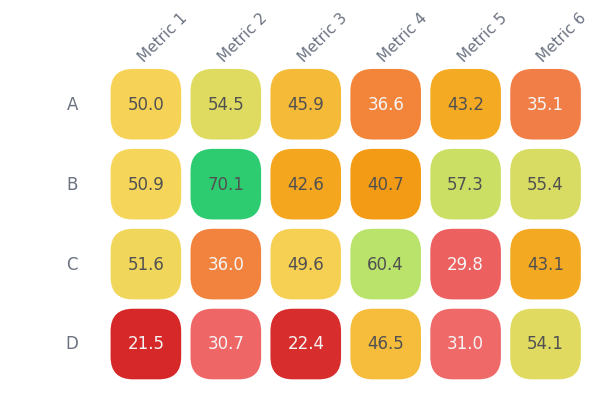
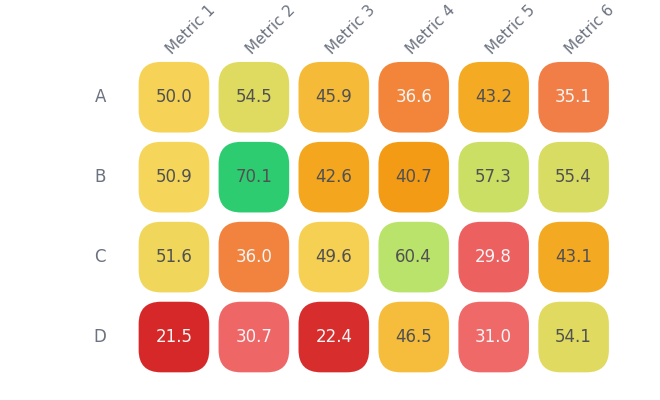
added to do list

diff --git a/demo.py b/demo.py
@@ -19,5 +19,5 @@ fig, ax = rounded_heatmap(
 )
 
 
-fig.savefig("images/heatmap.png", bbox_inches="tight")
+fig.savefig("images/heatmap.png")
 

diff --git a/README.md b/README.md
@@ -8,13 +8,13 @@ This small script came out of a real need during a case study presentation. I wa
 
 ## Install
 
-```bash
+```python
 pip install matplotlib numpy pandas
 ```
 
 ## Use
 
-```bash
+```python
 import pandas as pd
 from heatmap import rounded_heatmap
 
@@ -55,3 +55,9 @@ fig.savefig("images/heatmap.png", bbox_inches="tight")
 - **value_fmt** – Format for cell values (e.g., `{:.1f}`).
 - **value_fontsize** – Font size for cell values.
 - **text_color_dark / text_color_light** – Override text colors for dark/light cells.
+
+## To-Do & Fixes
+
+- [x] Add customizable color palette and reverse option
+- [x] Implement gap and corner rounding for cells
+- [ ] Fix legend rounding factor so it scales consistently with legend size
